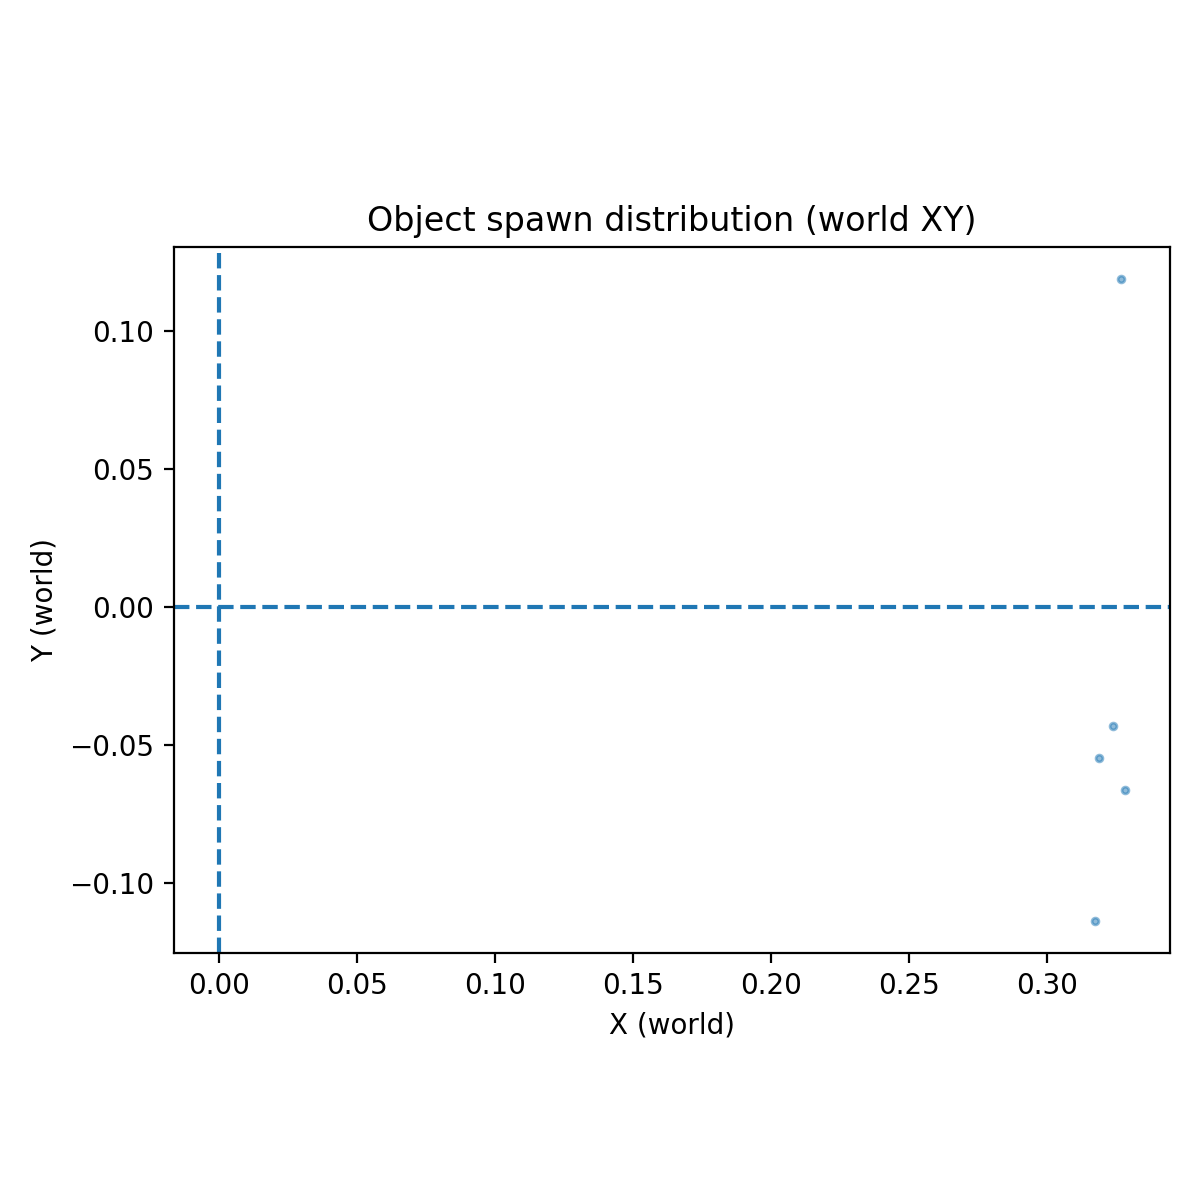
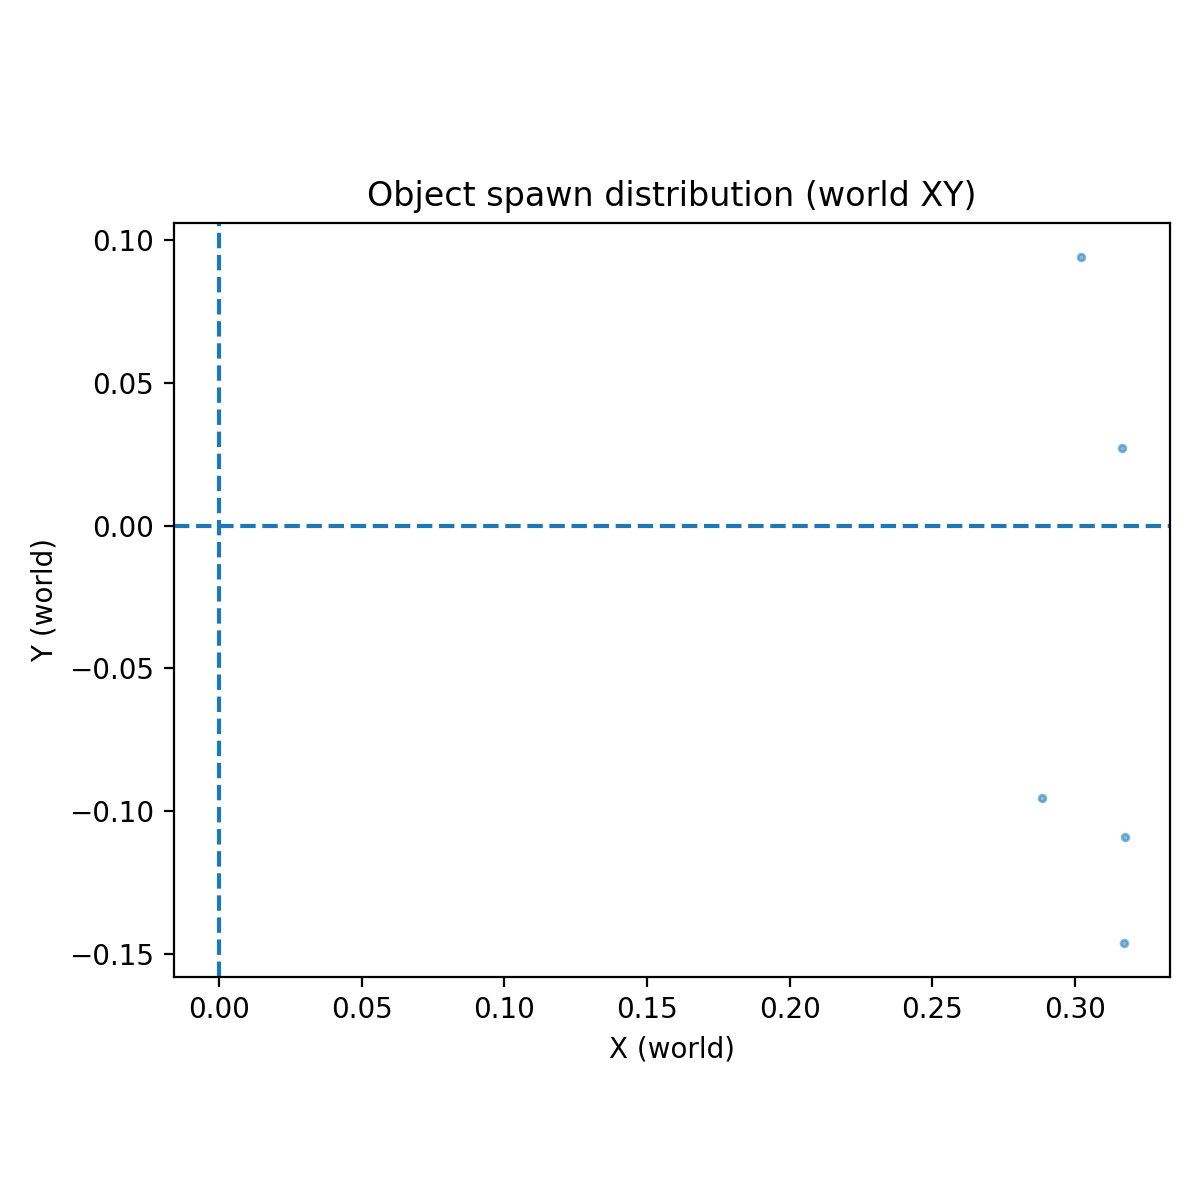
1

diff --git a/source/isaaclab_tasks/isaaclab_tasks/manager_based/manipulation/lift/lift_env_cfg.py b/source/isaaclab_tasks/isaaclab_tasks/manager_based/manipulation/lift/lift_env_cfg.py
@@ -299,8 +299,11 @@ class EventCfg:
         params={
             "asset_cfg": SceneEntityCfg("object_pool"),
             "pose_range": {
-                "z": (0.01, 0.01),
-                "x": (0.0, 0.0),
+                "z": (0.00, 0.00),
+                "yaw": (-0.3491, 0.3491),
+                "roll": (0.0, 0.0),
+                "pitch": (0.0, 0.0),
+                "x": (0.02, 0.08),
                 "y": (0.0, 0.0),
             },
             "velocity_range": {
@@ -313,7 +316,7 @@ class EventCfg:
             },
             "spawn_mode": "arc_angle",
             "angle_range_deg": (-25.0, 25.0),   # 只在 -40°~+40° 这个扇形里
-            "radius_range": (0.31, 0.35),       # 物体距离圆心 0.25~0.35m
+            "radius_range": (0.30, 0.36),       # 物体距离圆心 0.25~0.35m
             "center_from_robot": True,         # 如果 env_origin 就在 M0 下面，就用 False
             "align_yaw_to_center": True,        # 让物体朝向圆心（M0）
         },
@@ -341,7 +344,7 @@ class RewardsCfg:
 
     lifting_object_linear = RewTerm(
         func=mdp.object_is_lifted_linear,
-        params={"minimal_height": 0.025, "max_height": 0.1},
+        params={"minimal_height": 0.025, "max_height": 0.15},
         weight=100.0,   # 1500  150
     )
 
@@ -350,7 +353,7 @@ class RewardsCfg:
         func=mdp.object_is_lifted_with_contact,
         params={
             "minimal_height": 0.025,
-            "max_height": 0.1,
+            "max_height": 0.15,
             "contact_force_threshold": 1.5,  # 1.5N on Y-axis (based on your data)
             "require_both_contacts": True,  # Both fingers must contact
         },
@@ -380,7 +383,21 @@ class RewardsCfg:
     )
 
     # action penalty
-    # action_rate = RewTerm(func=mdp.action_rate_l2, weight=-0.001)
+    action_rate = RewTerm(
+        func=mdp.action_rate_l2,
+        weight=-0.001,  # 先从 -1e-4 ~ -1e-3 扫
+        params={
+            "only_after_grasp": True,
+            "post_grasp_scale": 1.0,
+            "deadzone": 0.01,  # 如果发现压得太死，可设 0.01/0.02（看你 action 的量纲）
+            "contact_force_threshold": 1.5,
+            "require_both_contacts": True,
+            "stable_steps": 8,
+            "release_steps": 2,
+            "left_sensor_cfg": SceneEntityCfg("contact_forces_left"),
+            "right_sensor_cfg": SceneEntityCfg("contact_forces_right"),
+        },
+    )
 
     contain_object = RewTerm(
         func=mdp.contain_object,
@@ -388,21 +405,21 @@ class RewardsCfg:
         weight=30.0,  # 2.0
     )
 
-    # NEW: encourage M0 to face object direction (turn base toward object)
-    m0_turn_toward_object = RewTerm(
-        func=mdp.m0_turn_toward_object,
-        params={
-            "in_range_deg": 15,        # 转到 ±20° 内就给奖励（想更严格就改小）
-            "std": 0.35,                 # 只有 in_range_deg=None 时才用
-            "center_from_robot": True,
-            "robot_cfg": SceneEntityCfg("robot"),
-            "object_cfg": SceneEntityCfg("object_pool"),
-            "debug": False,
-            "debug_every_steps": 1,
-            "debug_env": 0,
-        },
-        weight=5.0,                   # 先小一点，避免模型只顾着转不去抓
-    )
+    # old：为了防止夹取物体之后 M0 乱转，加入朝向物体的奖励 m0_turn_toward_object_until_grasp
+    # m0_turn_toward_object = RewTerm(
+    #     func=mdp.m0_turn_toward_object,
+    #     params={
+    #         "in_range_deg": 15,        # 转到 ±20° 内就给奖励（想更严格就改小）
+    #         "std": 0.35,                 # 只有 in_range_deg=None 时才用
+    #         "center_from_robot": True,
+    #         "robot_cfg": SceneEntityCfg("robot"),
+    #         "object_cfg": SceneEntityCfg("object_pool"),
+    #         "debug": False,
+    #         "debug_every_steps": 1,
+    #         "debug_env": 0,
+    #     },
+    #     weight=5.0,                   # 先小一点，避免模型只顾着转不去抓
+    # )
     m0_turn_toward_object = RewTerm(
         func=mdp.m0_turn_toward_object_until_grasp,
         params={

diff --git a/source/isaaclab/isaaclab/envs/mdp/rewards.py b/source/isaaclab/isaaclab/envs/mdp/rewards.py
@@ -12,6 +12,7 @@ the reward introduced by the function.
 from __future__ import annotations
 
 import torch
+import math
 from typing import TYPE_CHECKING
 
 from isaaclab.assets import Articulation, RigidObject
@@ -267,7 +268,70 @@ def applied_torque_limits(env: ManagerBasedRLEnv, asset_cfg: SceneEntityCfg = Sc
     return torch.sum(out_of_limits, dim=1)
 
 
-def action_rate_l2(env: ManagerBasedRLEnv) -> torch.Tensor:
+def action_rate_l2(
+    env,
+    # --- scaling ---
+    pre_grasp_scale: float = 1.0,     # grasp 前惩罚系数
+    post_grasp_scale: float = 1.0,    # grasp 后惩罚系数
+    only_after_grasp: bool = False,   # True: grasp 前完全不罚
+    # --- shaping ---
+    deadzone: float = 0.0,            # 小于 deadzone 的变化不计入惩罚（按 action 的单位）
+    action_weights: list[float] | None = None,  # 每个 action 维度的权重（可加大 M0 那一维）
+    # --- grasp gating params (复用你的 stable grasp mask) ---
+    left_sensor_cfg: SceneEntityCfg = SceneEntityCfg("contact_forces_left"),
+    right_sensor_cfg: SceneEntityCfg = SceneEntityCfg("contact_forces_right"),
+    contact_force_threshold: float = 1.5,
+    require_both_contacts: bool = True,
+    stable_steps: int = 8,
+    release_steps: int = 2,
+) -> torch.Tensor:
+    """Penalize the rate of change of actions (L2^2). Supports grasp-gating & deadzone & per-dim weights."""
+
+    a = env.action_manager.action
+    pa = env.action_manager.prev_action
+
+    # 容错：第 1 步可能没有 prev_action
+    if pa is None:
+        return torch.zeros(env.num_envs, device=env.device)
+
+    da = a - pa  # (num_envs, action_dim)
+
+    # 可选：每维权重（比如把 M0 那一维权重大一点）
+    if action_weights is not None:
+        w = torch.tensor(action_weights, device=da.device, dtype=da.dtype)
+        if w.numel() != da.shape[1]:
+            raise ValueError(f"action_weights length {w.numel()} != action_dim {da.shape[1]}")
+        da = da * w
+
+    # deadzone：忽略小幅变化，避免把正常控制噪声也压得过死
+    if deadzone > 0.0:
+        da = torch.sign(da) * torch.relu(torch.abs(da) - float(deadzone))
+
+    pen = torch.sum(da * da, dim=1)  # (num_envs,)
+
+    # grasp gating：只在夹稳后启用 / 或者夹稳后更强
+    if only_after_grasp or (pre_grasp_scale != post_grasp_scale):
+        stable = get_stable_grasp_mask(
+            env,
+            left_sensor_cfg=left_sensor_cfg,
+            right_sensor_cfg=right_sensor_cfg,
+            contact_force_threshold=contact_force_threshold,
+            require_both_contacts=require_both_contacts,
+            stable_steps=stable_steps,
+            release_steps=release_steps,
+        )
+
+        if only_after_grasp:
+            scale = torch.where(stable, torch.full_like(pen, post_grasp_scale), torch.zeros_like(pen))
+        else:
+            scale = torch.where(stable, torch.full_like(pen, post_grasp_scale), torch.full_like(pen, pre_grasp_scale))
+
+        pen = pen * scale
+
+    return pen
+
+
+def action_rate_l2_1(env: ManagerBasedRLEnv) -> torch.Tensor:
     """Penalize the rate of change of the actions using L2 squared kernel."""
     # with open('output_652.txt', 'a') as f:
     #     f.write(f"action_rate_l2 : {torch.mean(torch.sum(torch.square(env.action_manager.action - env.action_manager.prev_action), dim=1)).item()}\n")

diff --git a/source/isaaclab_tasks/isaaclab_tasks/manager_based/manipulation/lift/config/franka/joint_pos_env_cfg.py b/source/isaaclab_tasks/isaaclab_tasks/manager_based/manipulation/lift/config/franka/joint_pos_env_cfg.py
@@ -175,22 +175,22 @@ class CoarseArmCubeLiftEnvCfg(LiftEnvCfg):
                 #     init_state=RigidObjectCfg.InitialStateCfg(pos=[0.28, 0.01, 0.0]),
                 # ),
 
-                "bus": RigidObjectCfg(
-                    prim_path="/World/envs/env_.*/bus",
-                    spawn=sim_utils.UsdFileCfg(
-                        usd_path="/home/robo/code/IsaacLab/assets1/3D_assets_usd_new/bus_new2.usdc",
-                        # scale=(1000.0, 1000.0, 1000.0),
-                        rigid_props=sim_utils.RigidBodyPropertiesCfg(
-                            solver_position_iteration_count=128,
-                            solver_velocity_iteration_count=64,
-                            disable_gravity=False,
-                        ),
-                        articulation_props=sim_utils.ArticulationRootPropertiesCfg(
-                            articulation_enabled=False,  # CRITICAL: Disable articulation
-                        ),
-                    ),
-                    init_state=RigidObjectCfg.InitialStateCfg(pos=(0.29, 0.00, 0.03)),
-                ),
+                # "bus": RigidObjectCfg(
+                #     prim_path="/World/envs/env_.*/bus",
+                #     spawn=sim_utils.UsdFileCfg(
+                #         usd_path="/home/robo/code/IsaacLab/assets1/3D_assets_usd_new/bus_new2.usdc",
+                #         # scale=(1000.0, 1000.0, 1000.0),
+                #         rigid_props=sim_utils.RigidBodyPropertiesCfg(
+                #             solver_position_iteration_count=128,
+                #             solver_velocity_iteration_count=64,
+                #             disable_gravity=False,
+                #         ),
+                #         articulation_props=sim_utils.ArticulationRootPropertiesCfg(
+                #             articulation_enabled=False,  # CRITICAL: Disable articulation
+                #         ),
+                #     ),
+                #     init_state=RigidObjectCfg.InitialStateCfg(pos=(0.29, 0.00, 0.03)),
+                # ),
 
                 # "eye_drops": RigidObjectCfg(
                 #     prim_path="/World/envs/env_.*/eye_drops",

diff --git a/source/isaaclab/isaaclab/envs/mdp/events.py b/source/isaaclab/isaaclab/envs/mdp/events.py
@@ -1146,9 +1146,10 @@ def reset_object_pool_state_uniform(
         if spawn_mode == "arc_angle" and align_yaw_to_center:
             # ---------- 1. 计算“朝向圆心”的 yaw ----------
             # 向量：从物体位置指向圆心
-            vec_to_center = center_w - position      # [3]
+            vec_to_center = - (center_w - position)      # [3]
             # 只看平面 (x, y)，求方位角
             yaw = torch.atan2(vec_to_center[1], vec_to_center[0])  # 弧度
+            yaw = yaw + pose_rand_samples[idx, 5]
 
             # ---------- 2. 可选：加入一点随机 roll/pitch（保持 yaw 对齐） ----------
             roll = pose_rand_samples[idx, 3]
@@ -1167,7 +1168,7 @@ def reset_object_pool_state_uniform(
                 pose_rand_samples[idx, 3], pose_rand_samples[idx, 4], pose_rand_samples[idx, 5]
             )
             orientation = math_utils.quat_mul(default_quat, orientation_delta)
-        
+
         velocity = root_state[7:13] + vel_rand_samples[idx]
 
         x_world = float(position[0].item())
